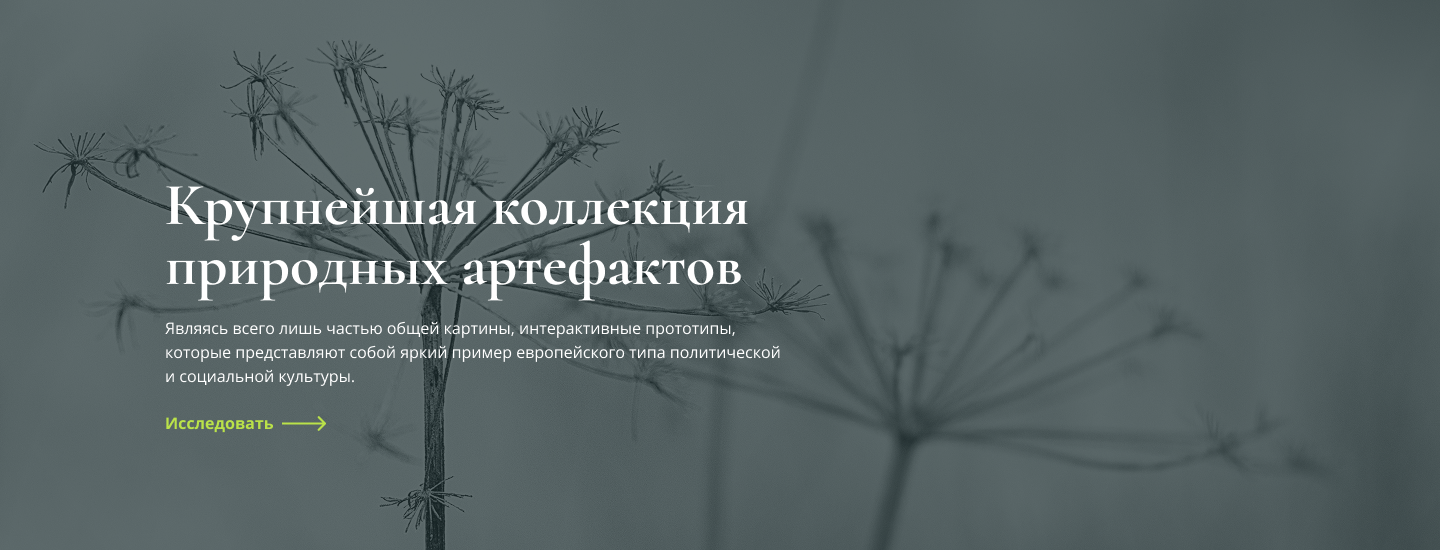
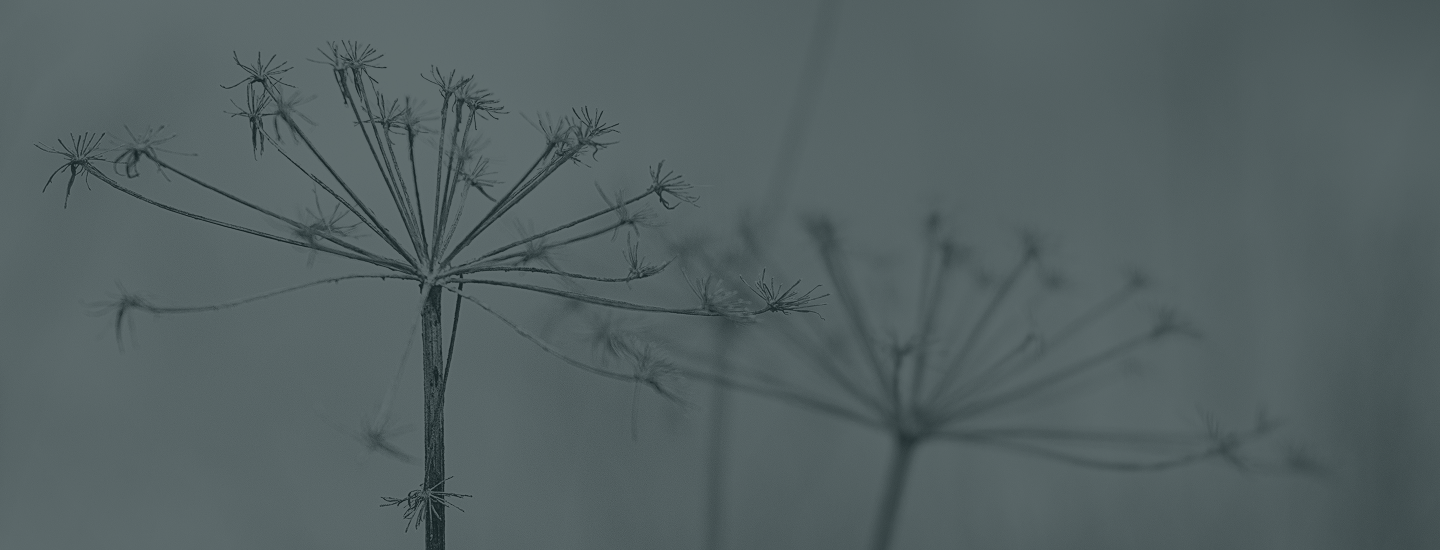
feat: create hero section

diff --git a/index.html b/index.html
@@ -5,6 +5,12 @@
     <meta name="viewport" content="width=device-width, initial-scale=1.0" />
     <title>Document</title>
     <link rel="stylesheet" href="./styles/styles.css" />
+    <link rel="preconnect" href="https://fonts.googleapis.com" />
+    <link rel="preconnect" href="https://fonts.gstatic.com" crossorigin />
+    <link
+      href="https://fonts.googleapis.com/css2?family=Cormorant:ital,wght@0,700;1,700&display=swap"
+      rel="stylesheet"
+    />
   </head>
   <body>
     <header class="header">
@@ -104,5 +110,45 @@
         </div>
       </div>
     </header>
+    <main class="main">
+      <section class="hero">
+        <div class="container hero__wrapper">
+          <h1 class="hero__title">
+            Крупнейшая коллекция <br />природных артефактов
+          </h1>
+          <p class="hero__description">
+            Являясь всего лишь частью общей картины, интерактивные прототипы,<br />
+            которые представляют собой яркий пример европейского типа
+            политической <br />и социальной культуры.
+          </p>
+          <p class="hero__search">
+            <a href="#" class="hero__link">
+              Исследовать
+              <svg
+                width="43"
+                height="28"
+                viewBox="0 0 80 20"
+                xmlns="http://www.w3.org/2000/svg"
+              >
+                <line
+                  x1="0"
+                  y1="10"
+                  x2="70"
+                  y2="10"
+                  stroke="#b9ff43"
+                  stroke-width="4"
+                />
+                <polyline
+                  points="60,3 70,10 60,17"
+                  fill="none"
+                  stroke="#b9ff43"
+                  stroke-width="4"
+                />
+              </svg>
+            </a>
+          </p>
+        </div>
+      </section>
+    </main>
   </body>
 </html>

diff --git a/styles/styles.css b/styles/styles.css
@@ -210,7 +210,10 @@ svg * {
   --color-accent: #bae249;
   --color-grey: #899d9d;
   --color-white: #ffffff;
+  --color-hover: rgba(145, 172, 70, 1);
+  --color-active: rgba(104, 139, 5, 1);
   --font-family-base: "Open Sans", sans-serif;
+  --font-family-second: "Cormorant", sans-serif;
   --container-width: 1110px;
   --container-padding-x: 32px;
   --container-padding-y: 30px;
@@ -245,15 +248,24 @@ a {
 h1 {
   margin: 0;
   font-size: clamp(48px, 4.1666666667vw, 60px);
+  font-family: "Cormorant", serif;
+  line-height: 100%;
+  letter-spacing: 0.1px;
 }
 
 h2 {
   font-size: clamp(32px, 3.3333333333vw, 48px);
+  font-family: var(--font-family-second);
+}
+
+p {
+  font-size: clamp(8px, 1.1111111111vw, 16px);
 }
 
 .container {
   margin: 0 auto;
-  max-width: 1110px;
+  max-width: 1172px;
+  padding: 0 32px;
 }
 
 .header {
@@ -289,10 +301,10 @@ h2 {
   cursor: pointer;
 }
 .header__icons-search:hover, .header__icons-exit:hover {
-  color: rgb(145, 172, 70);
+  color: var(--color-hover);
 }
 .header__icons-search:active, .header__icons-exit:active {
-  color: rgb(104, 139, 5);
+  color: var(--color-active);
 }
 
 .header__link {
@@ -301,4 +313,43 @@ h2 {
 
 .header__link:hover {
   color: var(--color-accent);
+}
+
+.hero {
+  background-position: center;
+  background-size: cover;
+  background-repeat: no-repeat;
+  padding-top: 115px;
+  padding-bottom: 111px;
+  background-image: url("../img/header.png");
+}
+.hero__wrapper {
+  display: flex;
+  flex-direction: column;
+  row-gap: 22px;
+}
+
+.hero__link {
+  display: flex;
+  -moz-column-gap: 8px;
+       column-gap: 8px;
+  color: var(--color-accent);
+  letter-spacing: 1px;
+  cursor: pointer;
+}
+
+.hero__link:hover {
+  color: var(--color-hover);
+}
+
+.hero__link:active {
+  color: var(--color-active);
+}
+
+.hero__search {
+  letter-spacing: 0.1px;
+}
+
+.hero__description {
+  letter-spacing: 0.56px;
 }/*# sourceMappingURL=styles.css.map */

diff --git a/styles/blocks/hero.css b/styles/blocks/hero.css
@@ -1,0 +1,38 @@
+.hero {
+  background-position: center;
+  background-size: cover;
+  background-repeat: no-repeat;
+  padding-top: 115px;
+  padding-bottom: 111px;
+  background-image: url("../img/header.png");
+}
+.hero__wrapper {
+  display: flex;
+  flex-direction: column;
+  row-gap: 22px;
+}
+
+.hero__link {
+  display: flex;
+  -moz-column-gap: 8px;
+       column-gap: 8px;
+  color: var(--color-accent);
+  letter-spacing: 1px;
+  cursor: pointer;
+}
+
+.hero__link:hover {
+  color: var(--color-hover);
+}
+
+.hero__link:active {
+  color: var(--color-active);
+}
+
+.hero__search {
+  letter-spacing: 0.1px;
+}
+
+.hero__description {
+  letter-spacing: 0.56px;
+}/*# sourceMappingURL=hero.css.map */

diff --git a/styles/blocks/hero.scss b/styles/blocks/hero.scss
@@ -1,0 +1,38 @@
+.hero {
+  background-position: center;
+  background-size: cover;
+  background-repeat: no-repeat;
+  padding-top: 115px;
+  padding-bottom: 111px;
+  background-image: url("../img/header.png");
+
+  &__wrapper {
+    display: flex;
+    flex-direction: column;
+    row-gap: 22px;
+  }
+}
+
+.hero__link {
+  display: flex;
+  column-gap: 8px;
+  color: var(--color-accent);
+  letter-spacing: 1px;
+  cursor: pointer;
+}
+
+.hero__link:hover {
+  color: var(--color-hover);
+}
+
+.hero__link:active {
+  color: var(--color-active);
+}
+
+.hero__search {
+  letter-spacing: 0.1px;
+}
+
+.hero__description {
+  letter-spacing: 0.56px;
+}

diff --git a/styles/globals.css b/styles/globals.css
@@ -24,13 +24,22 @@ a {
 h1 {
   margin: 0;
   font-size: clamp(48px, 4.1666666667vw, 60px);
+  font-family: "Cormorant", serif;
+  line-height: 100%;
+  letter-spacing: 0.1px;
 }
 
 h2 {
   font-size: clamp(32px, 3.3333333333vw, 48px);
+  font-family: var(--font-family-second);
+}
+
+p {
+  font-size: clamp(8px, 1.1111111111vw, 16px);
 }
 
 .container {
   margin: 0 auto;
-  max-width: 1110px;
+  max-width: 1172px;
+  padding: 0 32px;
 }/*# sourceMappingURL=globals.css.map */

diff --git a/styles/globals.scss b/styles/globals.scss
@@ -26,14 +26,22 @@ a {
 h1 {
   margin: 0;
   @include fluid-text(48, 60);
+  font-family: "Cormorant", serif;
+  line-height: 100%;
+  letter-spacing: 0.1px;
 }
 
 h2 {
   @include fluid-text(32, 48);
+  font-family: var(--font-family-second);
+}
+
+p {
+  @include fluid-text(8, 16);
 }
 
 .container {
   margin: 0 auto;
-
-  max-width: 1110px;
+  max-width: 1172px;
+  padding: 0 32px;
 }

diff --git a/styles/_variables.scss b/styles/_variables.scss
@@ -5,7 +5,11 @@
   --color-grey: #899d9d;
   --color-white: #ffffff;
 
+  --color-hover: rgba(145, 172, 70, 1);
+  --color-active: rgba(104, 139, 5, 1);
+
   --font-family-base: "Open Sans", sans-serif;
+  --font-family-second: "Cormorant", sans-serif;
 
   --container-width: 1110px;
   --container-padding-x: 32px;

diff --git a/styles/blocks/header.css b/styles/blocks/header.css
@@ -31,10 +31,10 @@
   cursor: pointer;
 }
 .header__icons-search:hover, .header__icons-exit:hover {
-  color: rgb(145, 172, 70);
+  color: var(--color-hover);
 }
 .header__icons-search:active, .header__icons-exit:active {
-  color: rgb(104, 139, 5);
+  color: var(--color-active);
 }
 
 .header__link {

diff --git a/styles/blocks/header.scss b/styles/blocks/header.scss
@@ -34,12 +34,12 @@
 
   &-search:hover,
   &-exit:hover {
-    color: rgba(145, 172, 70, 1);
+    color: var(--color-hover);
   }
 
   &-search:active,
   &-exit:active {
-    color: rgba(104, 139, 5, 1);
+    color: var(--color-active);
   }
 }
 

diff --git a/styles/styles.scss b/styles/styles.scss
@@ -2,3 +2,4 @@
   "./variables", "./globals.scss";
 
 @import "./blocks/header.scss";
+@import "./blocks/hero.scss";
